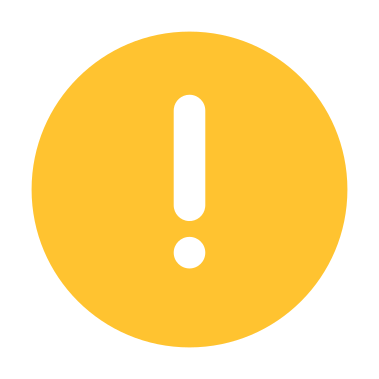
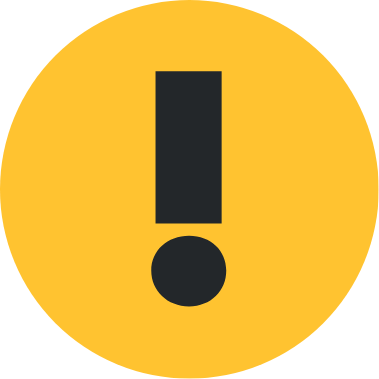
1.2.4 build 2354 (Incomplete)

diff --git a/commands/Automation/Interactions/Buttons/version-interactions.js b/commands/Automation/Interactions/Buttons/version-interactions.js
@@ -10,9 +10,7 @@ $ephemeral
 $interactionUpdate[
 $title[Changes]
 $description[
-* When "Build Info" button is avaiable in \`stats\` command, it will now open up as ephemeral reply
-* Support for attachments included within a message has been added to message edit logs
-* Added support for Announcement and Rules channel in \`welcomer\` and \`leave\`
+*No changes has been added yet*
 ]
 $if[$getGlobalVar[pre_release]==on;
 $attachment[./handlers/assets/warning.png;warning.png]
@@ -39,11 +37,7 @@ $ephemeral
 $interactionUpdate[
 $title[Bug Fixes]
 $description[
-* (Source Code) fixed a file name being misspelled
-* Fixed a potential problem of viewing empty permissions in Integration logs
-* Fixed the outdated description of "Include Bots" option in \`settings\` command
-* Fixed a issue where a message unedited would be logged for no reason
-* Fixed wrong character limit for message edit logs (text files mode)
+*No bug fixes has been added yet*
 ]
 $if[$getGlobalVar[pre_release]==on;
 $attachment[./handlers/assets/warning.png;warning.png]
@@ -70,10 +64,7 @@ $ephemeral
 $interactionUpdate[
 $title[Other]
 $description[
-* Channels/Roles selected for Leveling Exclusion will now be replaced by a text if they're deleted
-* (Pre-release only) Recolored the warning sign icon to be orange in \`version\` command
-* \`gitbuilds\` command has been redesigned to make it easier to understand
-* "Message Link" in message edit logs has been updated to be a section instead for embeds
+* (Pre-release only) The warning icon in \`version\` command has been refreshed
 ]
 $if[$getGlobalVar[pre_release]==on;
 $attachment[./handlers/assets/warning.png;warning.png]

diff --git a/handlers/variables.js b/handlers/variables.js
@@ -2,19 +2,19 @@ const config = require("../config.json");
 
 module.exports = {
 // Main variables (don't touch unless you know what you're doing)
-version: "1.2.3",
-versionCodename: "Dawn",
+version: "1.2.4",
+versionCodename: "Woody",
 libraryversiondevcheck: "on",
 release_type: "Stable",
 DevReleaseTypeToSet: "Pre-release",
-pre_release: "off",
-buildNumber: "2350",
-buildType: "Official Stable",
-buildStatus: "Complete",
+pre_release: "on",
+buildNumber: "2354",
+buildType: "Pre-release",
+buildStatus: "Incomplete",
 buildBranch: "rebase",
 buildRevision: "0",
-buildDate: "1727555924950",
-showbuildinfo: "off",
+buildDate: "1727743294994",
+showbuildinfo: "on",
 AllowBotMembers: config.AllowBotMembers,
 prefix: config.prefix,
 botinvitationmessage: "on",

diff --git a/commands/Main/gitbuilds.js b/commands/Main/gitbuilds.js
@@ -1,7 +1,7 @@
 module.exports = {
     name: "gitbuilds",
     info: {
-        description: "Returns information about dev builds (with a link to try them as well).",
+        description: "Returns information about Pre-release builds and how to try them.",
         perms: "`SendMessages`"
     },
     aliases: ["devbuilds"],
